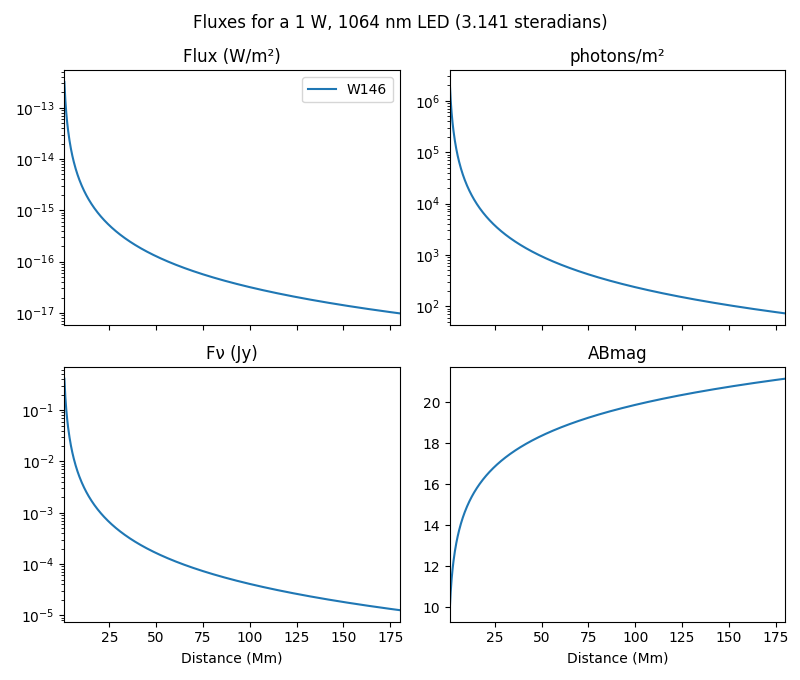
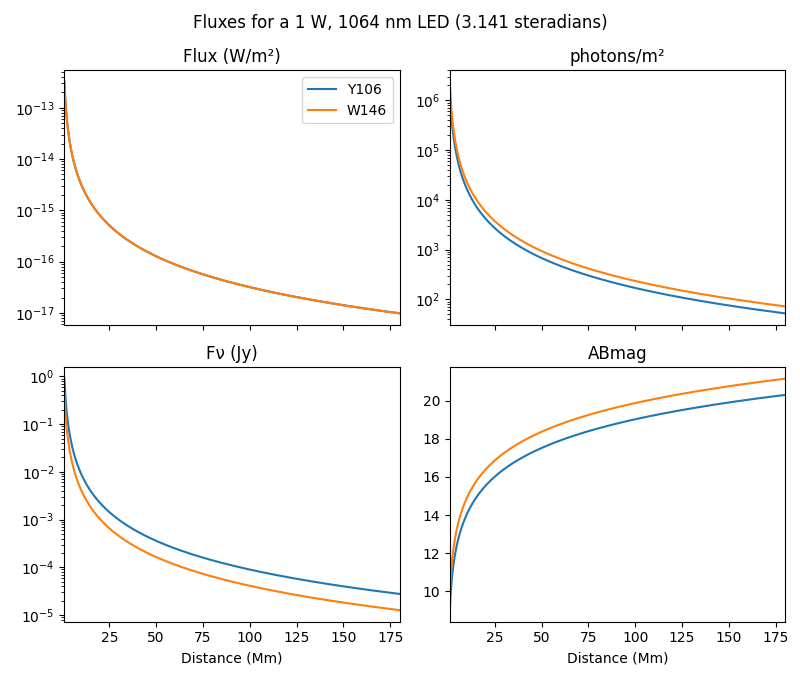
Fix 1064 nm (missed a Y band)

diff --git a/mag_graphs5.py b/mag_graphs5.py
@@ -65,7 +65,7 @@ WFI = [["R062",0.620e-6,0.140e-6],["Z087",0.8685e-6,0.1085e-6],["Y106",1.0595e-6
 #LSST = 
 
 fivethirtytwo = [["V",5448e-10,840e-10],["R",6407e-10,1580e-10],["g'",4639e-10,1280e-10],["r'",6122e-10,1150e-10],["R062",0.620e-6,0.140e-6],["W146",1.4635e-6,0.5365e-6]] #filters that overlap with a 532 nm laser
-tensixtyfour = [["W146",1.4635e-6,0.5365e-6]] # None of the ground based bands I have currently overlap with 1064 nm laser aside perhaps from the wings of J. Maybe some sort of Y?
+tensixtyfour = [["Y106",1.05950e-6,0.1325e-6],["W146",1.4635e-6,0.5365e-6]] # None of the ground based bands I have currently overlap with 1064 nm laser aside perhaps from the wings of J. Maybe some sort of Y?
 fourfortyfive = [["B",4361e-10,890e-10],["V",5448e-10,840e-10],["g'",4639e-10,1280e-10]]
 sixthirtyeight = [["V",5448e-10,840e-10],["R",6407e-10,1580e-10],["r'",6122e-10,1150e-10],["i'",7439e-10,1230e-10],["R062",0.620e-6,0.140e-6]]
 sixeighty = [["R",6407e-10,1580e-10],["I",7980e-10,1540e-10],["r'",6122e-10,1150e-10],["i'",7439e-10,1230e-10],["R062",0.620e-6,0.140e-6]]
